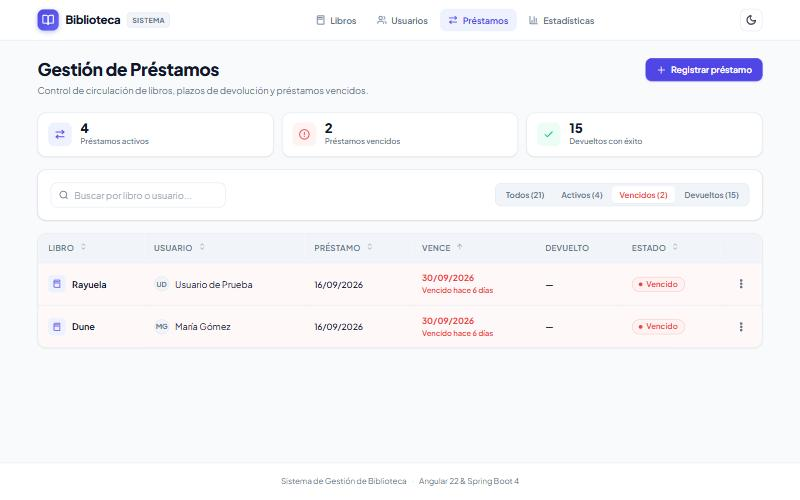
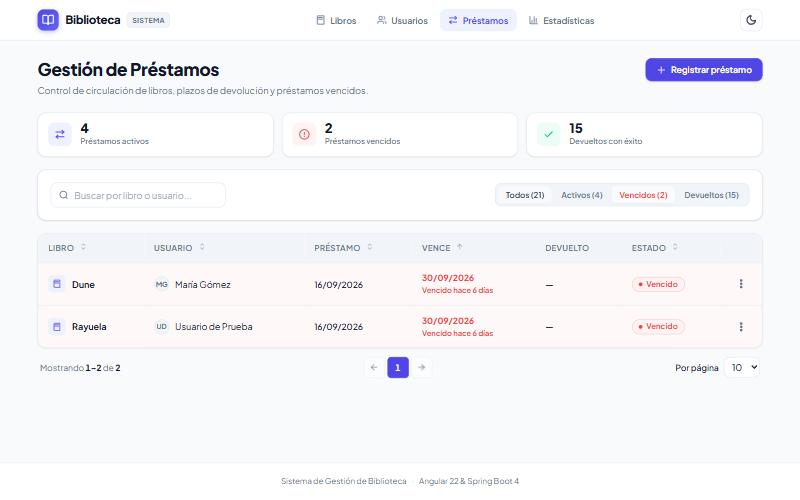
docs: README al día con Swagger, paginación y capturas actuales
- Capturas nuevas: historial paginado y Swagger UI; la de préstamos vencidos ya
  muestra el paginador.
- Diagrama de secuencia del historial paginado y Swagger en la arquitectura.
- Tecnologías, puertos, estructura, configuración, guía (Activos = en plazo) y
  códigos de error (400 por parámetros no admitidos) actualizados.

diff --git a/README.md b/README.md
@@ -55,7 +55,7 @@ Además: **tema claro / oscuro**, diseño **responsive** (escritorio, tableta y 
 | Capa | Tecnología |
 |---|---|
 | Frontend | Angular 22 (componentes standalone, signals, formularios reactivos), TypeScript, CSS |
-| Backend | Spring Boot 4.1 (Spring MVC, Spring Data JPA, Bean Validation, Actuator), Java 21 |
+| Backend | Spring Boot 4.1 (Spring MVC, Spring Data JPA, Bean Validation, Actuator), springdoc-openapi (Swagger UI), Java 21 |
 | Base de datos | H2 en archivo (no requiere instalar nada) |
 | Pruebas | JUnit 5, Mockito, MockMvc (backend) · Vitest (frontend) |
 
@@ -68,6 +68,8 @@ Además: **tema claro / oscuro**, diseño **responsive** (escritorio, tableta y 
 | <img src="docs/img/libros.jpg" alt="Catálogo de libros" /> | <img src="docs/img/prestamos-vencidos.jpg" alt="Préstamos vencidos" /> |
 | **Validación del nombre de usuario** | **Estadísticas en modo oscuro** |
 | <img src="docs/img/usuario-validacion.jpg" alt="Aviso de validación del nombre" /> | <img src="docs/img/estadisticas-oscuro.jpg" alt="Estadísticas en modo oscuro" /> |
+| **Historial paginado (página 2 de 3)** | **Documentación de la API (Swagger UI)** |
+| <img src="docs/img/prestamos-paginacion.jpg" alt="Historial de préstamos paginado" /> | <img src="docs/img/swagger.jpg" alt="Swagger UI con los endpoints de préstamos y usuarios" /> |
 
 <p align="center">
   <img src="docs/img/movil-libros.jpg" alt="Vista móvil con el menú de acciones" width="300" /><br/>
@@ -95,7 +97,7 @@ Puertos que usa la aplicación (deben estar libres):
 
 | Servicio | Puerto | URL |
 |---|---|---|
-| Backend (API) | `8080` | http://localhost:8080 |
+| Backend (API) | `8080` | http://localhost:8080 · documentación en http://localhost:8080/swagger-ui.html |
 | Frontend (web) | `4200` | http://localhost:4200 |
 
 ---
@@ -243,8 +245,10 @@ flowchart LR
         C -.-> EH
     end
     DB[("H2<br/>backend/data")]
+    SW["Swagger UI<br/>/swagger-ui.html"]
     B --> P
     I -- "HTTP + JSON" --> C
+    SW -. "prueba la API" .-> C
     R --> DB
 ```
 
@@ -338,6 +342,30 @@ stateDiagram-v2
 
 > Mientras un usuario tenga un préstamo **vencido**, no puede pedir más libros.
 
+### Historial de préstamos paginado
+
+Filtros, búsqueda, orden y paginación se resuelven en el servidor. El navegador solo recibe la página que muestra.
+
+```mermaid
+sequenceDiagram
+    actor U as Usuario
+    participant W as Angular
+    participant API as LoanController
+    participant DB as H2
+
+    U->>W: Cambia filtro, orden o página, o escribe en el buscador
+    Note over W: La búsqueda espera 300 ms sin teclear.<br/>Una consulta nueva cancela la anterior (switchMap).
+    W->>API: GET /api/loans?status=OVERDUE&q=&sort=dueDate&direction=asc&page=0&size=10
+    API->>API: Valida status, sort y direction (400 si no son válidos)
+    API->>DB: Datos de la página (join fetch) y total
+    DB-->>API: 10 filas + total de coincidencias
+    API-->>W: content, page, size, totalElements, totalPages
+    W-->>U: Tabla + «Mostrando 1–10 de N»
+    W->>API: GET /api/loans/summary (al cargar y tras prestar o devolver)
+    API-->>W: total, activos, vencidos, devueltos
+    W-->>U: Contadores de pestañas e indicadores
+```
+
 ### Eliminar un usuario
 
 ```mermaid
@@ -386,7 +414,8 @@ flowchart TD
 ### Préstamos
 
 - **Registrar préstamo:** el campo de usuario es un buscador. Al hacer clic muestra a todos los usuarios y al escribir filtra por nombre o correo, sin importar mayúsculas ni tildes.
-- **Filtros:** *Todos, Activos, Vencidos, Devueltos*, más una búsqueda por libro o usuario (se aplica al dejar de escribir).
+- **Filtros:** *Todos, Activos, Vencidos, Devueltos*, más una búsqueda por libro o usuario (se aplica al dejar de escribir). *Activos* son los que están **en plazo**; los que pasaron su fecha límite aparecen en *Vencidos*.
+- **Ordenar:** haz clic en la cabecera de una columna (libro, usuario, fechas o estado).
 - **Paginación:** abajo de la tabla se indica *Mostrando 11–20 de 21*, con botones de página y selector de 10, 20 o 50 por página. Filtros, búsqueda, orden y páginas se resuelven en el servidor.
 - **Devolver:** menú ⋮ → *Registrar devolución* (solo en préstamos activos o vencidos).
 
@@ -491,7 +520,7 @@ curl -X POST http://localhost:8080/api/members -H "Content-Type: application/jso
 
 | Código | Significado |
 |---|---|
-| `400` | Datos inválidos o JSON mal formado (`fields` indica qué campo falla) |
+| `400` | Datos inválidos (`fields` indica qué campo falla), JSON mal formado o parámetro no admitido (p. ej. `sort=password`) |
 | `404` | El recurso no existe |
 | `409` | Se incumple una regla de negocio o hubo un conflicto de concurrencia |
 | `500` | Error inesperado (mensaje genérico; el detalle queda en el log del servidor) |
@@ -526,11 +555,11 @@ biblioteca/
 │       ├── main/java/com/biblioteca/
 │       │   ├── web/                 Controladores REST
 │       │   ├── service/             Casos de uso y reglas de negocio
-│       │   ├── repository/          Acceso a datos (JPA)
+│       │   ├── repository/          Acceso a datos (JPA) y búsqueda paginada (LoanSearchRepositoryImpl)
 │       │   ├── domain/              Entidades: Book, Member, Loan
 │       │   ├── dto/                 Contratos de entrada y salida de la API
 │       │   ├── exception/           Errores y manejador global
-│       │   ├── config/              Parámetros de negocio (LibraryProperties)
+│       │   ├── config/              Parámetros de negocio (LibraryProperties) y Swagger (OpenApiConfig)
 │       │   └── DataSeeder.java      Datos de ejemplo y registros de prueba
 │       ├── main/resources/application.properties
 │       └── test/                    Tests unitarios y de integración
@@ -541,7 +570,7 @@ biblioteca/
 │       └── app/
 │           ├── core/                ApiService, interceptor, modelos, validaciones
 │           ├── pages/               Libros, Usuarios, Préstamos, Estadísticas
-│           └── shared/              Modal, menú ⋮, buscador, gráficas, iconos
+│           └── shared/              Modal, menú ⋮, buscador, paginador, gráficas, iconos
 └── docs/img/                        Capturas usadas en este README
 ```
 
@@ -558,6 +587,7 @@ Ajustes principales en `backend/src/main/resources/application.properties`. Todo
 | `library.loans.days` | `14` | `LIBRARY_LOANS_DAYS` | Días de plazo de un préstamo |
 | `library.loans.max-active` | `3` | `LIBRARY_LOANS_MAX_ACTIVE` | Préstamos activos por usuario |
 | `app.cors.allowed-origins` | `http://localhost:4200` | `CORS_ALLOWED_ORIGINS` | Origen permitido para el frontend |
+| `springdoc.swagger-ui.path` | `/swagger-ui.html` | `SPRINGDOC_SWAGGER_UI_PATH` | Ruta de la documentación interactiva |
 
 La URL de la API que usa el frontend está en `frontend/src/app/core/api.service.ts` (`API_URL`).
 
